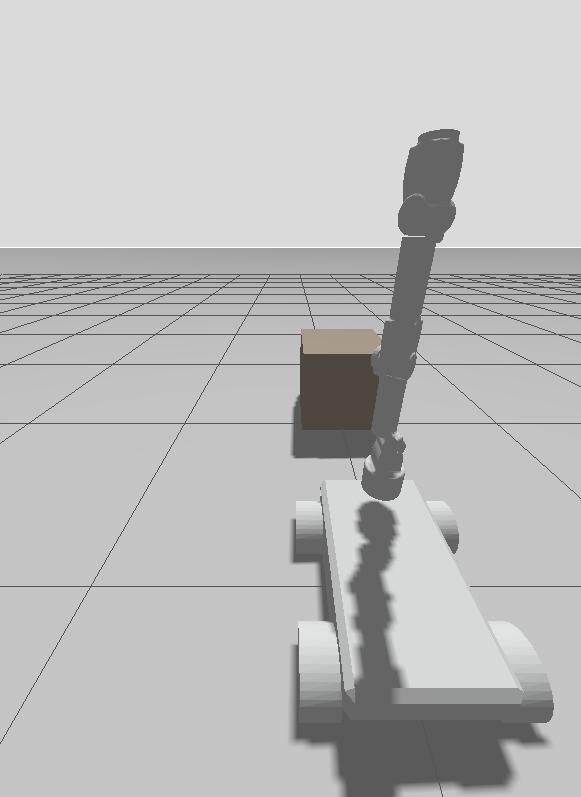
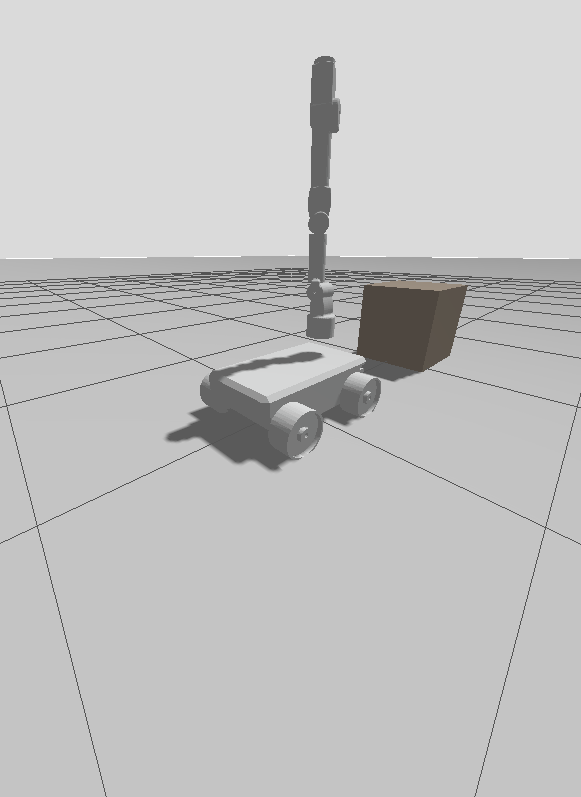
Fix two bugs in verify_scenario_c.py found while re-running Scenario C, refresh screenshot
Re-ran the simulation end to end and found the verification script
itself had two real bugs, caught by actually using it again rather than
trusting it after one passing run:

- _on_status() kept only status_list[-1], assuming the newest goal is
  always last. The status array accumulates every goal the server has
  seen, including the launch file's own auto-triggered demo goal sent
  moments earlier -- the last element is not guaranteed to be the goal
  this script sent. Now keeps the full list and matches by goal_id.
- The 15s deadline for observing a terminal status was too short for
  this environment: confirmed by watching the raw status topic that a
  goal genuinely reached SUCCEEDED, just after the same kind of DDS/
  scheduling delay documented in docs/TESTING.md for get_result_async().
  Increased to 40s with that latency cited inline as the reason.

Re-ran after both fixes: all three automated layers PASS (controller
state, action status, joint_states convergence within 8.7e-3 rad).
Captured a new screenshot via Gazebo's /gui/screenshot service with the
GUI camera repositioned (/gui/follow + /gui/follow/offset) for a clearer
view of the arm extended toward the pick_table -- still illustrative
only, per docs/TESTING.md; the automated script is the actual evidence.

diff --git a/src/mobile_manipulator_bringup/scripts/verify_scenario_c.py b/src/mobile_manipulator_bringup/scripts/verify_scenario_c.py
@@ -57,7 +57,7 @@ class VerifyScenarioC(Node):
             reliability=QoSReliabilityPolicy.RELIABLE,
             durability=QoSDurabilityPolicy.TRANSIENT_LOCAL,
         )
-        self._latest_status = None
+        self._latest_status_list = []
         self.create_subscription(
             GoalStatusArray,
             '/arm_controller/follow_joint_trajectory/_action/status',
@@ -75,8 +75,13 @@ class VerifyScenarioC(Node):
         self._latest_joint_states = msg
 
     def _on_status(self, msg):
-        if msg.status_list:
-            self._latest_status = msg.status_list[-1]
+        # AUDIT FIX: this used to keep only msg.status_list[-1], assuming
+        # the newest goal is always last. The status array accumulates
+        # every goal the server has seen (including the launch file's
+        # own auto-triggered demo goal sent moments earlier); the last
+        # element is not guaranteed to be the goal *this script* sent.
+        # Keep the whole list and look up by goal_id when checking.
+        self._latest_status_list = list(msg.status_list)
 
     # --- Layer 1: ROS 2 control layer -------------------------------
     def check_controller_layer(self):
@@ -131,11 +136,18 @@ class VerifyScenarioC(Node):
             return False, 'goal rejected or send timed out'
         goal_id = handle.goal_id.uuid
 
-        deadline = time.time() + 15.0
+        # 40s, not the trajectory's nominal 2s: this environment's DDS/
+        # executor scheduling under CPU-constrained Gazebo Sim has shown
+        # up to ~26s of delay between actual completion and the status
+        # update being observed (see docs/TESTING.md) -- a generous
+        # deadline here avoids a false FAIL on a slow-but-real success.
+        deadline = time.time() + 40.0
         while time.time() < deadline:
             rclpy.spin_once(self, timeout_sec=0.2)
-            if self._latest_status is not None and bytes(self._latest_status.goal_info.goal_id.uuid) == bytes(goal_id):
-                status = self._latest_status.status
+            for entry in self._latest_status_list:
+                if bytes(entry.goal_info.goal_id.uuid) != bytes(goal_id):
+                    continue
+                status = entry.status
                 if status == GoalStatus.STATUS_SUCCEEDED:
                     return True, f'action status topic reports STATUS_SUCCEEDED ({status})'
                 if status in (GoalStatus.STATUS_ABORTED, GoalStatus.STATUS_CANCELED):
